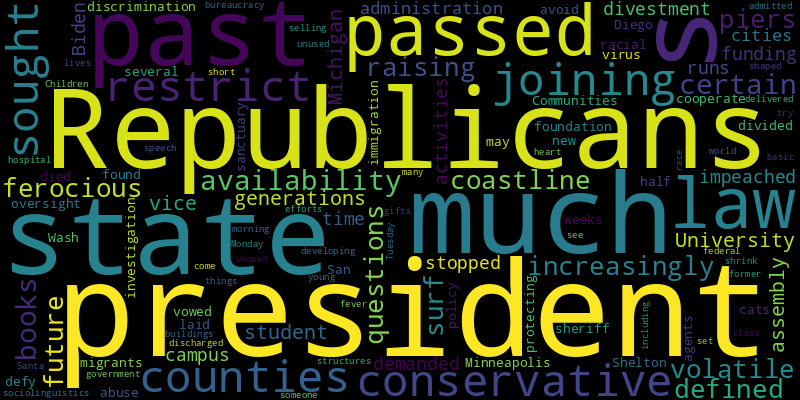
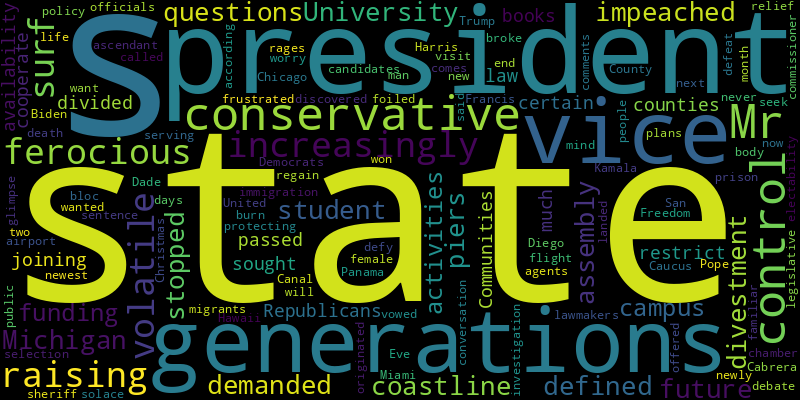
chore(bot): 💩 auto commit

diff --git a/README.md b/README.md
@@ -2,41 +2,41 @@
 Auto RSS New York Times and Generate Word Cloud
 
 ## New York Times Global News
-* The ancient Christian community in the coastal city of Tyre has little cause for celebration this year, with many mourning their dead and still rattled by months of Israeli bombardment.
+* Surprised by Oct. 7 and fearful of another attack, Israel weakened safeguards meant to protect noncombatants, allowing officers to endanger up to 20 people in each airstrike. One of the deadliest bombardments of the 21st century followed.
+* A global crackdown on fentanyl has led cartels to innovate production methods and test their risky formulas on people, as well as rabbits and chickens.
+* A look back at the horrible loss of life.
+* Midori Kato is the last original member of the cast of “Sazae-san,” a cartoon series that premiered in 1969 and never quite joined the modern world.
+* Trapped in Sudan’s brutal civil war, a young woman chose to work in a clinic on the front line, treating civilians and combatants. She had to navigate suspicion from both sides.
+* The prosecutors asserted that Ko Wen-je, a former mayor, took bribes. He and his supporters have maintained that the charges are a political vendetta.
 * In southern Mexico, a city dazzles with a celebration of its rich culture and history through a radish-carving competition, a cherished tradition upheld by generations of families.
-* Russia’s state aviation authority said the Azerbaijan Airlines plane had been trying to make an emergency landing. The Kazakh authorities said that at least 28 people survived.
-* Vladimir Kara-Murza, a vehement critic of President Vladimir V. Putin, didn’t want to be part of a prisoner exchange. But he says more exchanges are needed.
+* Russia’s state aviation authority said the Azerbaijan Airlines plane had been trying to make an emergency landing. The Kazakh authorities said that at least 29 people survived.
 * In the ruins left by Cyclone Chido, people from Mayotte, off the eastern coast of Africa, are calling to deport the undocumented immigrants who had settled there from neighboring islands.
 * Hundreds of buildings were damaged or looted, including schools and hospitals, in a wave of unrest after Daniel Chapo was confirmed as the winner of the presidential election.
-* Trump blamed Biden. Biden blamed the Afghan military. Our investigation found that the U.S. unwittingly laid the groundwork for the Taliban’s victory long ago.
-* Some say that the community is in danger of losing its 1,600-year foothold in the enclave and that it is far from certain those who have fled will ever feel safe enough to return home.
-* The Catholic Jubilee in 2025 is expected to draw 32 million visitors. Officials are proud of the city’s accompanying makeover, but residents lament soaring housing costs and changes in Rome’s character.
-* It is a daunting task for Bangladesh. But an unusual mix of young people and seasoned technocrats are determined to make the most of their opening.
 
 ![Global](./global.png)
 ## New York Times United States News
-* Republicans passed the law in 2023, joining other conservative states and counties that have sought to restrict the availability of certain books.
 * An increasingly ferocious and volatile surf is raising questions about the future of the state’s piers, which have defined the coastline for generations.
 * The president and vice president of the University of Michigan’s student assembly were impeached after they demanded divestment and stopped funding campus activities.
-* As time runs out for the Biden administration, cities like Minneapolis — where an investigation found abuse and racial discrimination — may avoid oversight.
+* Republicans passed the law in 2023, joining other conservative states and counties that have sought to restrict the availability of certain books.
 * Communities are divided on how much to cooperate with immigration agents. In San Diego, the sheriff has vowed to defy a new policy protecting migrants.
-* More than half of the cats at the sanctuary in Shelton, Wash., died of the virus over the past several weeks.
-* He laid the foundation for sociolinguistics, and he showed that structures like class and race shaped speech as much as where someone lives.
-* Children and the young at heart can see where in the world Santa is and how many gifts have been delivered.
-* Past efforts to shrink the federal bureaucracy, including basic things like selling off unused government buildings, have come up short. Republicans are set to try again.
-* The former president was discharged Tuesday morning after being admitted to a hospital on Monday after developing a fever.
+* Democrats wanted to end the electability debate. After Vice President Kamala Harris’s defeat, a conversation that has frustrated and foiled two generations of female candidates rages on.
+* A Freedom Caucus bloc has never won control of a state legislative chamber — until now. Some lawmakers worry that the newly ascendant conservatives want to “burn it all down.”
+* The body was discovered after the flight, which originated from Chicago, landed at the airport in Hawaii. The death is under investigation.
+* The selection of Mr. Cabrera, a Miami-Dade County commissioner, comes a few days after Mr. Trump called for the United States to regain control of the Panama Canal.
+* The man, who had been serving a life sentence, broke out of the state’s newest prison on Christmas Eve, officials said.
+* President Biden will seek solace and “relief” during a visit with Pope Francis next month, according to people familiar with his plans. His public comments have offered a glimpse into what is on his mind.
 
 ![US](./usnews.png)
 ## New York Times Asia News
+* The Apple supplier has spent millions in the United States, India and Mexico over the past two years to lessen its dependence on China.
+* The prosecutors asserted that Ko Wen-je, a former mayor, took bribes. He and his supporters have maintained that the charges are a political vendetta.
+* A look back at the horrible loss of life.
+* Experts said they were “blind” to the Indian Ocean tsunami in 2004. Twenty years later, working toward a world without tsunami deaths is a challenge.
+* Midori Kato is the last original member of the cast of “Sazae-san,” a cartoon series that premiered in 1969 and never quite joined the modern world.
+* A report confirmed prior indications that a pilot’s misunderstanding of air traffic control directives, and a missed warning, caused the January accident.
+* The airline also temporarily stopped selling tickets for flights departing Thursday, but said that there was no impact on flight safety.
+* Plus, “Squid Game” returns.
+* Russia’s state aviation authority said the Azerbaijan Airlines plane had been trying to make an emergency landing. The Kazakh authorities said that at least 29 people survived.
 * Around the world, people found ways to show their holiday spirit.
-* Trump blamed Biden. Biden blamed the Afghan military. Our investigation found that the U.S. unwittingly laid the groundwork for the Taliban’s victory long ago.
-* Reports of vandalism and mob violence are real, but wilder accusations emanating from India muddy the picture.
-* It is a daunting task for Bangladesh. But an unusual mix of young people and seasoned technocrats are determined to make the most of their opening.
-* Hun Manet, who took over as prime minister last year, has followed in the steps of his father, who ran Cambodia for nearly 40 years.
-* The Japanese companies are considering joining forces to survive in a rapidly changing auto industry, but auto history is filled with troubled and failed marriages.
-* Plus, celebrating “Chrismukkah.”
-* The North Korean army is one of the world’s largest. As it joins Russia’s war against Ukraine, its soldiers are paying a price for Kim Jong-un’s geopolitical maneuvers.
-* With the next season of “Squid Game” about to air, a Korean American writer shares her experience of a group tour in Korea based on the popular streaming genre.
-* Japan’s second- and third-largest automakers hope the $50 billion deal would help them catch up with Tesla and China’s BYD in electric vehicles and advanced software.
 
 ![Asian](./asian.png)

diff --git a/archive/2024-12-25.md b/archive/2024-12-25.md
@@ -1,0 +1,42 @@
+# NewsArchive
+Auto RSS New York Times and Generate Word Cloud
+
+## New York Times Global News
+* The ancient Christian community in the coastal city of Tyre has little cause for celebration this year, with many mourning their dead and still rattled by months of Israeli bombardment.
+* In southern Mexico, a city dazzles with a celebration of its rich culture and history through a radish-carving competition, a cherished tradition upheld by generations of families.
+* Russia’s state aviation authority said the Azerbaijan Airlines plane had been trying to make an emergency landing. The Kazakh authorities said that at least 28 people survived.
+* Vladimir Kara-Murza, a vehement critic of President Vladimir V. Putin, didn’t want to be part of a prisoner exchange. But he says more exchanges are needed.
+* In the ruins left by Cyclone Chido, people from Mayotte, off the eastern coast of Africa, are calling to deport the undocumented immigrants who had settled there from neighboring islands.
+* Hundreds of buildings were damaged or looted, including schools and hospitals, in a wave of unrest after Daniel Chapo was confirmed as the winner of the presidential election.
+* Trump blamed Biden. Biden blamed the Afghan military. Our investigation found that the U.S. unwittingly laid the groundwork for the Taliban’s victory long ago.
+* Some say that the community is in danger of losing its 1,600-year foothold in the enclave and that it is far from certain those who have fled will ever feel safe enough to return home.
+* The Catholic Jubilee in 2025 is expected to draw 32 million visitors. Officials are proud of the city’s accompanying makeover, but residents lament soaring housing costs and changes in Rome’s character.
+* It is a daunting task for Bangladesh. But an unusual mix of young people and seasoned technocrats are determined to make the most of their opening.
+
+![Global](./global.png)
+## New York Times United States News
+* Republicans passed the law in 2023, joining other conservative states and counties that have sought to restrict the availability of certain books.
+* An increasingly ferocious and volatile surf is raising questions about the future of the state’s piers, which have defined the coastline for generations.
+* The president and vice president of the University of Michigan’s student assembly were impeached after they demanded divestment and stopped funding campus activities.
+* As time runs out for the Biden administration, cities like Minneapolis — where an investigation found abuse and racial discrimination — may avoid oversight.
+* Communities are divided on how much to cooperate with immigration agents. In San Diego, the sheriff has vowed to defy a new policy protecting migrants.
+* More than half of the cats at the sanctuary in Shelton, Wash., died of the virus over the past several weeks.
+* He laid the foundation for sociolinguistics, and he showed that structures like class and race shaped speech as much as where someone lives.
+* Children and the young at heart can see where in the world Santa is and how many gifts have been delivered.
+* Past efforts to shrink the federal bureaucracy, including basic things like selling off unused government buildings, have come up short. Republicans are set to try again.
+* The former president was discharged Tuesday morning after being admitted to a hospital on Monday after developing a fever.
+
+![US](./usnews.png)
+## New York Times Asia News
+* Around the world, people found ways to show their holiday spirit.
+* Trump blamed Biden. Biden blamed the Afghan military. Our investigation found that the U.S. unwittingly laid the groundwork for the Taliban’s victory long ago.
+* Reports of vandalism and mob violence are real, but wilder accusations emanating from India muddy the picture.
+* It is a daunting task for Bangladesh. But an unusual mix of young people and seasoned technocrats are determined to make the most of their opening.
+* Hun Manet, who took over as prime minister last year, has followed in the steps of his father, who ran Cambodia for nearly 40 years.
+* The Japanese companies are considering joining forces to survive in a rapidly changing auto industry, but auto history is filled with troubled and failed marriages.
+* Plus, celebrating “Chrismukkah.”
+* The North Korean army is one of the world’s largest. As it joins Russia’s war against Ukraine, its soldiers are paying a price for Kim Jong-un’s geopolitical maneuvers.
+* With the next season of “Squid Game” about to air, a Korean American writer shares her experience of a group tour in Korea based on the popular streaming genre.
+* Japan’s second- and third-largest automakers hope the $50 billion deal would help them catch up with Tesla and China’s BYD in electric vehicles and advanced software.
+
+![Asian](./asian.png)
